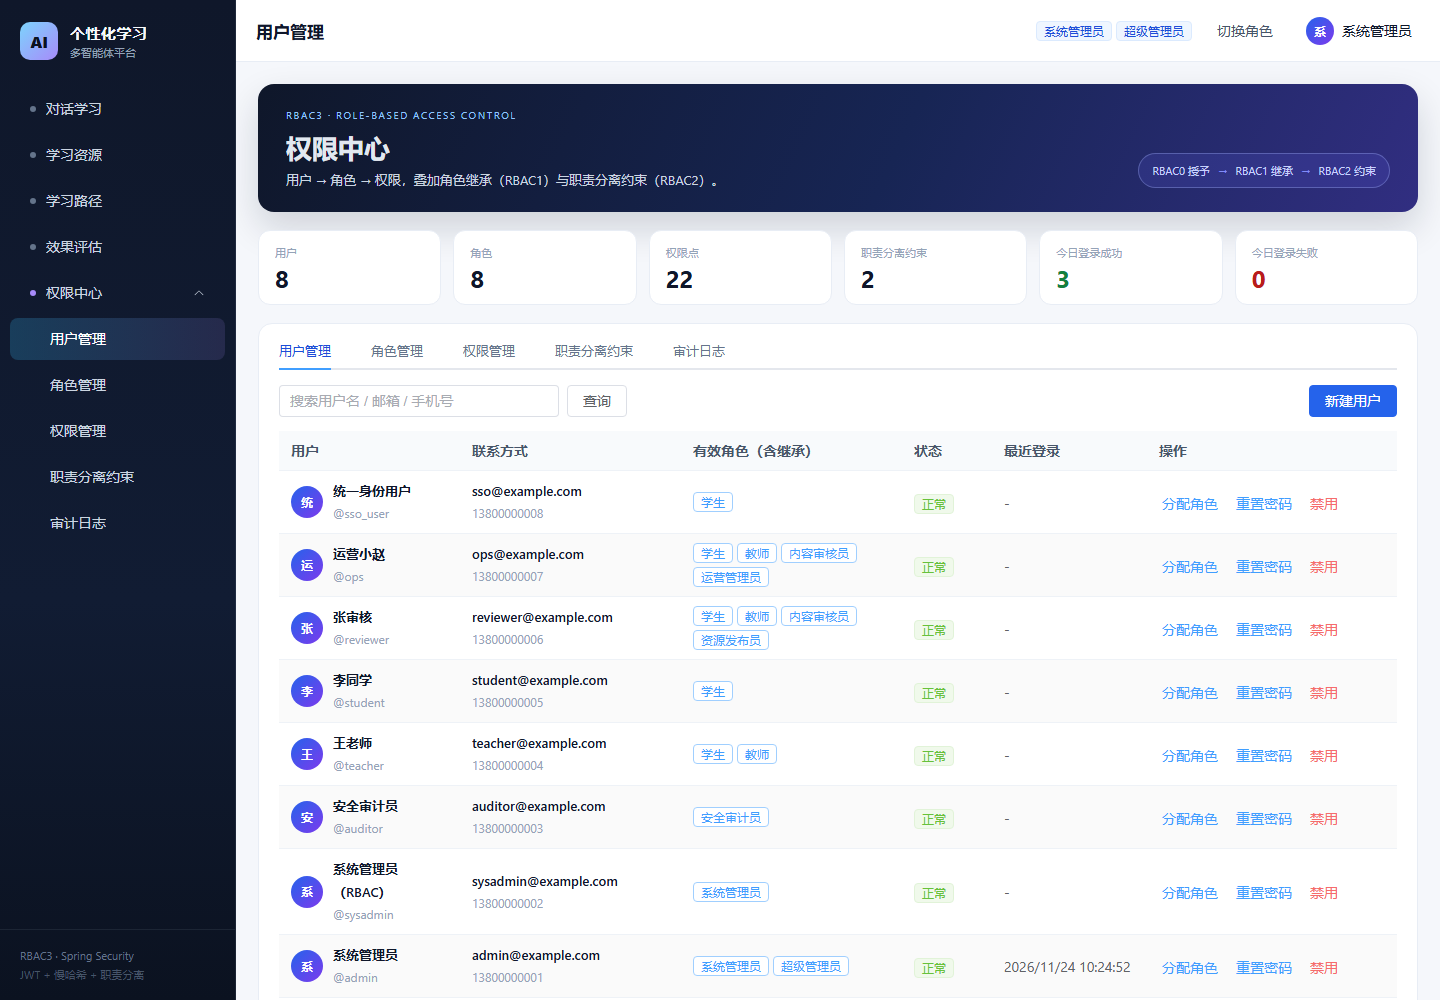
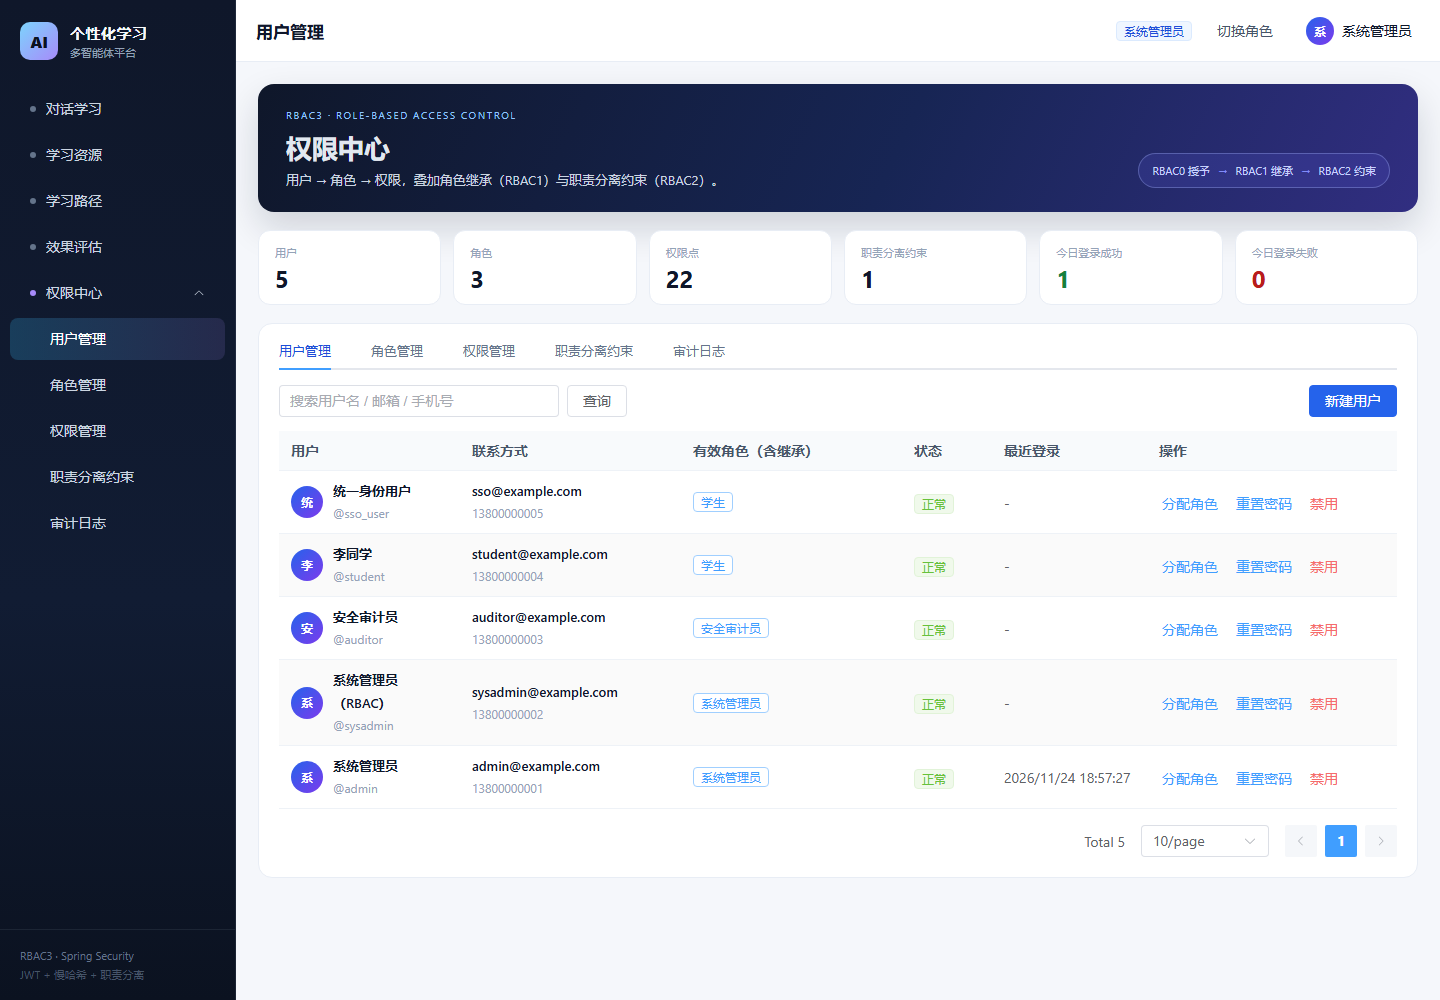
feat(auth): 精简内置角色为三个基线角色
- 仅保留学生、系统管理员、安全审计员三个内置角色
- 系统管理员拥有全部 22 个权限，用于继续创建和授权自定义角色
- 移除教师/审核员/发布员/运营/超级管理员种子及内置 DSD 约束
- 测试改为管理员现场创建角色、DSD 约束和用户后验证 40901 流程
- 同步更新登录页演示账号、设计文档与截图

diff --git a/frontend/src/views/auth/Login.vue b/frontend/src/views/auth/Login.vue
@@ -122,10 +122,10 @@
         <div class="demo-title">演示账号（开发模式）</div>
         <div class="demo-grid">
           <button type="button" @click="fillDemo('admin', 'Admin@12345')">admin / Admin@12345</button>
-          <button type="button" @click="fillDemo('reviewer', 'Reviewer@12345')">reviewer / Reviewer@12345</button>
           <button type="button" @click="fillDemo('student', 'Student@12345')">student / Student@12345</button>
+          <button type="button" @click="fillDemo('auditor', 'Auditor@12345')">auditor / Auditor@12345</button>
         </div>
-        <p>reviewer 拥有审核员+发布员角色，登录时会触发 DSD 角色选择。</p>
+        <p>仅内置学生、系统管理员、安全审计员三个角色；教师、审核员等请在权限中心自建。</p>
       </div>
     </section>
 

diff --git a/frontend/src/views/admin/Roles.vue b/frontend/src/views/admin/Roles.vue
@@ -49,10 +49,10 @@
       <el-form label-position="top">
         <div class="grid-2">
           <el-form-item label="角色编码">
-            <el-input v-model="form.code" :disabled="Boolean(form.id)" placeholder="ROLE_CONTENT_REVIEWER" />
+            <el-input v-model="form.code" :disabled="Boolean(form.id)" placeholder="ROLE_CUSTOM_TEACHER" />
           </el-form-item>
           <el-form-item label="角色名称">
-            <el-input v-model="form.name" placeholder="内容审核员" />
+            <el-input v-model="form.name" placeholder="自定义教师" />
           </el-form-item>
         </div>
         <el-form-item label="描述">

diff --git a/backend/src/main/java/com/example/learning/auth/config/AuthDataInitializer.java b/backend/src/main/java/com/example/learning/auth/config/AuthDataInitializer.java
@@ -126,15 +126,14 @@ public class AuthDataInitializer implements ApplicationRunner {
         return entity;
     }
 
+    /**
+     * 只保留三个内置基线角色；教师、审核员、发布员、运营等业务角色由管理员在权限中心自建。
+     * 这样既保留最小可用的管理闭环，也给课程演示留出“自己建角色”的操作空间。
+     */
     private void seedRoles() {
         role("ROLE_STUDENT", "学生", "基础学习角色", null, null, null, 10);
-        role("ROLE_TEACHER", "教师", "继承学生权限，可生成资源与调整路径", "ROLE_STUDENT", null, null, 20);
-        role("ROLE_CONTENT_REVIEWER", "内容审核员", "审核资源质量，继承教师权限", "ROLE_TEACHER", null, null, 30);
-        role("ROLE_PUBLISHER", "资源发布员", "发布审核通过的资源", "ROLE_TEACHER", null, "ROLE_TEACHER", 40);
-        role("ROLE_OPS_ADMIN", "运营管理员", "运营与用户支持", "ROLE_CONTENT_REVIEWER", null, null, 50);
-        role("ROLE_SYS_ADMIN", "系统管理员", "RBAC 管理", null, 3, null, 60);
-        role("ROLE_SUPER_ADMIN", "超级管理员", "全部权限，继承系统管理员", "ROLE_SYS_ADMIN", 2, null, 70);
-        role("ROLE_SECURITY_AUDITOR", "安全审计员", "独立审计角色", null, 2, null, 80);
+        role("ROLE_SYS_ADMIN", "系统管理员", "系统管理与 RBAC 管理，拥有全部权限", null, 3, null, 60);
+        role("ROLE_SECURITY_AUDITOR", "安全审计员", "只读审计角色", null, 2, null, 80);
     }
 
     private AuthRole role(String code, String name, String description, String parentCode,
@@ -155,16 +154,8 @@ public class AuthDataInitializer implements ApplicationRunner {
 
     private void seedRolePermissions() {
         grant("ROLE_STUDENT", "resource:read", "path:read", "profile:read", "profile:write");
-        grant("ROLE_TEACHER", "resource:generate", "path:write");
-        grant("ROLE_CONTENT_REVIEWER", "resource:review");
-        grant("ROLE_PUBLISHER", "resource:publish");
-        grant("ROLE_OPS_ADMIN", "system:ops", "resource:delete", "rbac:user:read",
-                "rbac:audit:read", "rbac:admin");
-        grant("ROLE_SYS_ADMIN", "rbac:user:read", "rbac:user:write", "rbac:role:read", "rbac:role:write",
-                "rbac:permission:read", "rbac:permission:write", "rbac:constraint:read",
-                "rbac:constraint:write", "rbac:audit:read", "rbac:admin", "system:ops",
-                "resource:delete");
-        grant("ROLE_SUPER_ADMIN", permissions.keySet().toArray(String[]::new));
+        // 系统管理员是唯一的全权限内置角色，便于继续创建/授权自定义角色。
+        grant("ROLE_SYS_ADMIN", permissions.keySet().toArray(String[]::new));
         grant("ROLE_SECURITY_AUDITOR", "rbac:audit:read", "rbac:constraint:read",
                 "rbac:user:read", "rbac:permission:read", "rbac:role:read", "rbac:admin");
     }
@@ -200,20 +191,15 @@ public class AuthDataInitializer implements ApplicationRunner {
     }
 
     private void seedUsers() {
-        AuthUser admin = user("admin", "Admin@12345", "系统管理员", "admin@example.com", "13800000001",
-                "ROLE_SUPER_ADMIN");
+        user("admin", "Admin@12345", "系统管理员", "admin@example.com", "13800000001",
+                "ROLE_SYS_ADMIN");
         user("sysadmin", "SysAdmin@12345", "系统管理员（RBAC）", "sysadmin@example.com", "13800000002",
                 "ROLE_SYS_ADMIN");
         user("auditor", "Auditor@12345", "安全审计员", "auditor@example.com", "13800000003",
                 "ROLE_SECURITY_AUDITOR");
-        user("teacher", "Teacher@12345", "王老师", "teacher@example.com", "13800000004",
-                "ROLE_TEACHER");
-        user("student", "Student@12345", "李同学", "student@example.com", "13800000005",
+        user("student", "Student@12345", "李同学", "student@example.com", "13800000004",
                 "ROLE_STUDENT");
-        user("reviewer", "Reviewer@12345", "张审核", "reviewer@example.com", "13800000006",
-                "ROLE_TEACHER", "ROLE_CONTENT_REVIEWER", "ROLE_PUBLISHER");
-        user("ops", "Ops@12345", "运营小赵", "ops@example.com", "13800000007", "ROLE_OPS_ADMIN");
-        AuthUser ssoUser = user("sso_user", "Sso@12345", "统一身份用户", "sso@example.com", "13800000008",
+        AuthUser ssoUser = user("sso_user", "Sso@12345", "统一身份用户", "sso@example.com", "13800000005",
                 "ROLE_STUDENT");
 
         AuthIdentity identity = new AuthIdentity();
@@ -222,7 +208,7 @@ public class AuthDataInitializer implements ApplicationRunner {
         identity.setUserId(ssoUser.getId());
         identityRepository.save(identity);
 
-        log.info("demo accounts seeded: admin / sysadmin / auditor / teacher / student / reviewer / ops / sso_user");
+        log.info("demo accounts seeded: admin / sysadmin / auditor / student / sso_user");
         log.info("demo credentials are documented in README (development only)");
     }
 
@@ -255,12 +241,10 @@ public class AuthDataInitializer implements ApplicationRunner {
     }
 
     private void seedConstraints() {
+        // 仅保留管理员/审计员这条静态互斥约束；DSD 由管理员按自建角色自行配置。
         constraint("SSD_ADMIN_AUDITOR", "管理员与审计员互斥", ConstraintType.SSD, 1,
                 "同一用户不能同时拥有系统管理员与安全审计员角色（静态职责分离）。",
                 "ROLE_SYS_ADMIN", "ROLE_SECURITY_AUDITOR");
-        constraint("DSD_MAKER_CHECKER", "审核与发布分离", ConstraintType.DSD, 1,
-                "单次会话不能同时激活内容审核员与资源发布员（动态职责分离，模拟 maker-checker）。",
-                "ROLE_CONTENT_REVIEWER", "ROLE_PUBLISHER");
     }
 
     private void constraint(String code, String name, ConstraintType type, int maxRoles,

diff --git a/backend/src/test/java/com/example/learning/auth/AuthFlowIntegrationTest.java b/backend/src/test/java/com/example/learning/auth/AuthFlowIntegrationTest.java
@@ -44,7 +44,8 @@ class AuthFlowIntegrationTest {
         JsonNode roles = getJson("/api/admin/roles", login.token());
         assertThat(roles.path("code").asInt()).isZero();
         assertThat(roles.path("data").isArray()).isTrue();
-        assertThat(roles.path("data").size()).isGreaterThanOrEqualTo(8);
+        assertThat(roles.path("data").size()).isGreaterThanOrEqualTo(3);
+        assertThat(login.permissions()).contains("rbac:role:write", "rbac:user:write");
 
         JsonNode users = getJson("/api/admin/users?keyword=admin", login.token());
         assertThat(users.path("code").asInt()).isZero();
@@ -56,20 +57,40 @@ class AuthFlowIntegrationTest {
     }
 
     @Test
-    void reviewerMustChooseBetweenDsdRoles() throws Exception {
-        JsonNode conflict = loginRaw("reviewer", "Reviewer@12345", null);
+    void adminCanCreateRolesAndDsdConstraint() throws Exception {
+        LoginResult admin = login("admin", "Admin@12345", null);
+
+        long reviewerRole = createRole(admin.token(), "ROLE_TEST_REVIEWER", "测试审核员");
+        long publisherRole = createRole(admin.token(), "ROLE_TEST_PUBLISHER", "测试发布员");
+
+        Map<String, Object> constraint = new HashMap<>();
+        constraint.put("code", "DSD_TEST_MAKER_CHECKER");
+        constraint.put("name", "测试审核发布互斥");
+        constraint.put("type", "DSD");
+        constraint.put("maxRoles", 1);
+        constraint.put("description", "测试动态职责分离");
+        constraint.put("enabled", true);
+        constraint.put("roleIds", List.of(reviewerRole, publisherRole));
+        JsonNode createdConstraint = postJson("/api/admin/constraints", constraint, admin.token());
+        assertThat(createdConstraint.path("code").asInt()).isZero();
+
+        Map<String, Object> user = new HashMap<>();
+        user.put("username", "dsduser");
+        user.put("password", "PurpleLake@2026");
+        user.put("displayName", "DSD 用户");
+        user.put("email", "dsduser@example.com");
+        user.put("phone", "");
+        user.put("roleIds", List.of(reviewerRole, publisherRole));
+        JsonNode createdUser = postJson("/api/admin/users", user, admin.token());
+        assertThat(createdUser.path("code").asInt()).isZero();
+
+        JsonNode conflict = loginRaw("dsduser", "PurpleLake@2026", null);
         assertThat(conflict.path("code").asInt()).isEqualTo(40901);
         assertThat(conflict.path("data").path("roleChoiceRequired").asBoolean()).isTrue();
         assertThat(conflict.path("data").path("options").size()).isGreaterThan(0);
 
-        LoginResult reviewer = login("reviewer", "Reviewer@12345", List.of("ROLE_CONTENT_REVIEWER"));
-        assertThat(reviewer.permissions()).contains("resource:review");
-        assertThat(reviewer.permissions()).doesNotContain("resource:publish");
-        assertThat(reviewer.activeRoles()).containsExactly("ROLE_CONTENT_REVIEWER");
-
-        JsonNode both = loginRaw("reviewer", "Reviewer@12345",
-                List.of("ROLE_CONTENT_REVIEWER", "ROLE_PUBLISHER"));
-        assertThat(both.path("code").asInt()).isEqualTo(40901);
+        LoginResult single = login("dsduser", "PurpleLake@2026", List.of("ROLE_TEST_REVIEWER"));
+        assertThat(single.activeRoles()).containsExactly("ROLE_TEST_REVIEWER");
     }
 
     @Test
@@ -143,20 +164,20 @@ class AuthFlowIntegrationTest {
         assertThat(registered.path("data").path("user").path("username").asText()).isEqualTo("newuser");
         assertThat(registered.path("data").path("permissions").toString()).contains("resource:read");
 
-        JsonNode forgot = postJson("/api/auth/forgot", Map.of("account", "ops"), null);
+        JsonNode forgot = postJson("/api/auth/forgot", Map.of("account", "sso_user"), null);
         assertThat(forgot.path("code").asInt()).isZero();
         String resetCode = forgot.path("data").path("debugCode").asText();
         assertThat(resetCode).hasSize(6);
 
         JsonNode reset = postJson("/api/auth/reset", Map.of(
-                "account", "ops",
+                "account", "sso_user",
                 "code", resetCode,
                 "newPassword", "BlueLake@2026",
                 "confirmPassword", "BlueLake@2026"), null);
         assertThat(reset.path("code").asInt()).isZero();
 
-        LoginResult ops = login("ops", "BlueLake@2026", null);
-        assertThat(ops.code()).isZero();
+        LoginResult ssoUser = login("sso_user", "BlueLake@2026", null);
+        assertThat(ssoUser.code()).isZero();
     }
 
     @Test
@@ -216,6 +237,22 @@ class AuthFlowIntegrationTest {
                 objectMapper.convertValue(node.path("data").path("activeRoleCodes"),
                         objectMapper.getTypeFactory().constructCollectionType(List.class, String.class)),
                 node.path("code").asInt());
+    }
+
+    private long createRole(String token, String code, String name) throws Exception {
+        Map<String, Object> body = new HashMap<>();
+        body.put("code", code);
+        body.put("name", name);
+        body.put("description", "integration test role");
+        body.put("parentId", null);
+        body.put("maxMembers", null);
+        body.put("requiredRoleId", null);
+        body.put("sortOrder", 500);
+        JsonNode response = postJson("/api/admin/roles", body, token);
+        assertThat(response.path("code").asInt())
+                .withFailMessage("create role failed: %s", response)
+                .isZero();
+        return response.path("data").path("id").asLong();
     }
 
     private JsonNode loginRaw(String account, String password, List<String> roles) throws Exception {

diff --git a/docs/rbac3-design.md b/docs/rbac3-design.md
@@ -14,10 +14,6 @@
 
 ![角色管理](screenshots/rbac/03-roles.png)
 
-**DSD 角色选择**：reviewer 同时拥有审核员与发布员时，登录阶段必须选择一个激活角色。
-
-![DSD 登录后](screenshots/rbac/06-reviewer.png)
-
 ## 1. 目标与边界
 
 - 在现有「个性化资源生成与学习多智能体系统」中新增独立 `auth` 模块，不侵入原有学习业务。
@@ -41,18 +37,23 @@
 
 采用「派生角色继承基线角色权限」：`auth_role.parent_id` 指向被继承的基线角色。
 
+默认只内置三个互不继承的基线角色：
+
 ```text
-ROLE_SYS_ADMIN
-  └─ ROLE_SUPER_ADMIN
-ROLE_STUDENT
-  └─ ROLE_TEACHER
-       ├─ ROLE_CONTENT_REVIEWER
-       │    └─ ROLE_OPS_ADMIN
-       └─ ROLE_PUBLISHER
-ROLE_SECURITY_AUDITOR（独立）
+ROLE_STUDENT          学生（学习基础权限）
+ROLE_SYS_ADMIN        系统管理员（全部权限，用于创建/授权其他角色）
+ROLE_SECURITY_AUDITOR 安全审计员（只读审计）
 ```
 
-- 用户直接授予 `ROLE_CONTENT_REVIEWER` 后，有效角色为 `CONTENT_REVIEWER + TEACHER + STUDENT`。
+管理员可在权限中心创建派生角色，例如：
+
+```text
+ROLE_STUDENT
+  └─ ROLE_CUSTOM_TEACHER（继承学生）
+       └─ ROLE_CUSTOM_REVIEWER（继承教师）
+```
+
+- 用户直接授予 `ROLE_CUSTOM_REVIEWER` 后，有效角色为 `CUSTOM_REVIEWER + CUSTOM_TEACHER + STUDENT`。
 - 闭包表每行 `(ancestor_id, descendant_id, depth)` 表示「拥有 ancestor 即获得 descendant」；查询用户有效角色只需一次 JOIN。
 - 任何继承关系变更都会重建闭包，并递增所有用户 `token_version`，使旧刷新令牌失效。
 - 管理端角色树以基线角色为根、派生角色为子节点展示；表格「继承自」列即 `parent_id`。
@@ -67,10 +68,12 @@ ROLE_SECURITY_AUDITOR（独立）
 | 前置角色 | 分配角色时 | 必须先拥有 `required_role_id` 指定的角色 |
 | 用户角色数 | 分配角色时 | 默认最多 8 个直接角色（`app.auth.rbac.max-roles-per-user`） |
 
-内置约束：
+内置约束只保留：
 
 - `SSD_ADMIN_AUDITOR`：系统管理员与安全审计员互斥（阈值 1）。
-- `DSD_MAKER_CHECKER`：内容审核员与资源发布员不能在同一次会话同时激活（阈值 1）。
+
+DSD 不再内置：管理员创建两个互斥业务角色后，可在「职责分离约束」页新建 DSD 约束，
+例如审核员/发布员在单次会话中择一激活。
 
 DSD 冲突返回业务码 `40901`，`data` 中带 `options`（用户可激活角色），前端弹出角色选择框，用户选择后重新签发令牌。
 
@@ -201,14 +204,14 @@ DSD 冲突返回业务码 `40901`，`data` 中带 `options`（用户可激活角
 
 | 账号 | 密码 | 角色 | 用途 |
 | --- | --- | --- | --- |
-| `admin` | `Admin@12345` | 超级管理员 | 全部权限 |
-| `sysadmin` | `SysAdmin@12345` | 系统管理员 | RBAC 管理 |
+| `admin` | `Admin@12345` | 系统管理员 | 全部权限，创建/授权自定义角色 |
+| `sysadmin` | `SysAdmin@12345` | 系统管理员 | RBAC 管理备用账号 |
 | `auditor` | `Auditor@12345` | 安全审计员 | 只读审计/约束 |
-| `teacher` | `Teacher@12345` | 教师 | 资源生成 |
 | `student` | `Student@12345` | 学生 | 基础学习 |
-| `reviewer` | `Reviewer@12345` | 教师+审核员+发布员 | **触发 DSD 角色选择** |
-| `ops` | `Ops@12345` | 运营管理员 | 运营/用户查看 |
 | `sso_user` | `Sso@12345` | 学生 | 统一身份认证映射 |
+
+内置角色只有 **学生、系统管理员、安全审计员** 三个。教师、审核员、发布员、运营等角色
+不再内置，登录 `admin` 后在「角色管理 → 新建角色」自行创建并分配权限。
 
 ## 8. 运行方式
 

diff --git a/README.md b/README.md
@@ -83,8 +83,9 @@ npm run dev
 # Linux/macOS: VITE_API_TARGET=http://localhost:8081 npm run dev
 ```
 
-首次启动自动建表并写入演示账号。登录 `admin / Admin@12345`；`reviewer / Reviewer@12345`
-会触发动态职责分离（DSD）角色选择。完整模型见 [RBAC3 设计](docs/rbac3-design.md)。
+首次启动自动建表并写入演示账号。内置角色只保留 **学生、系统管理员、安全审计员** 三个，
+教师/审核员/发布员等业务角色请登录 `admin / Admin@12345` 后在权限中心自行创建。
+完整模型见 [RBAC3 设计](docs/rbac3-design.md)。
 
 ### Docker 完整部署
 
